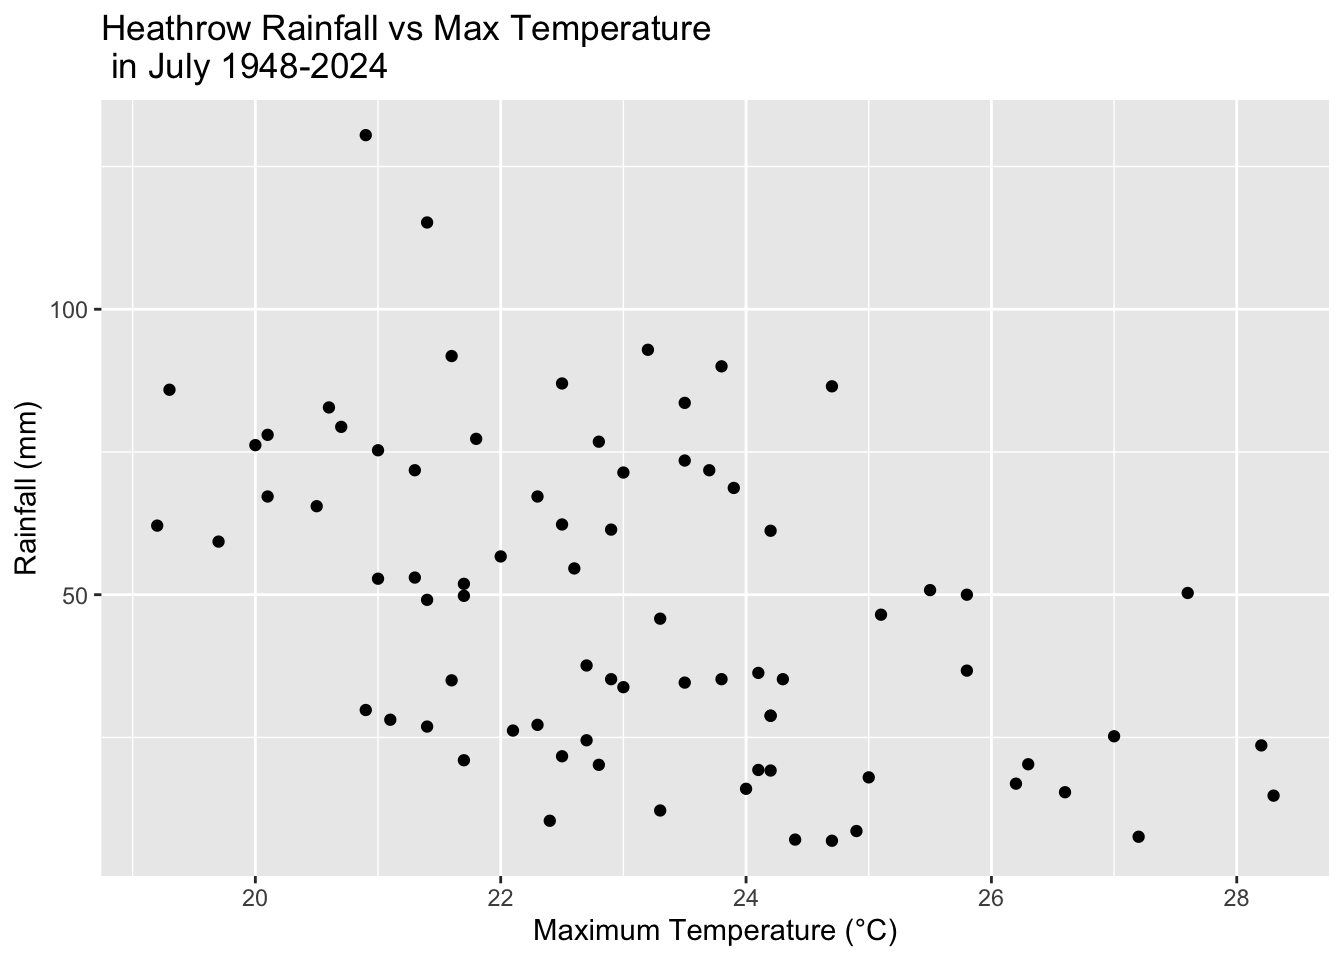
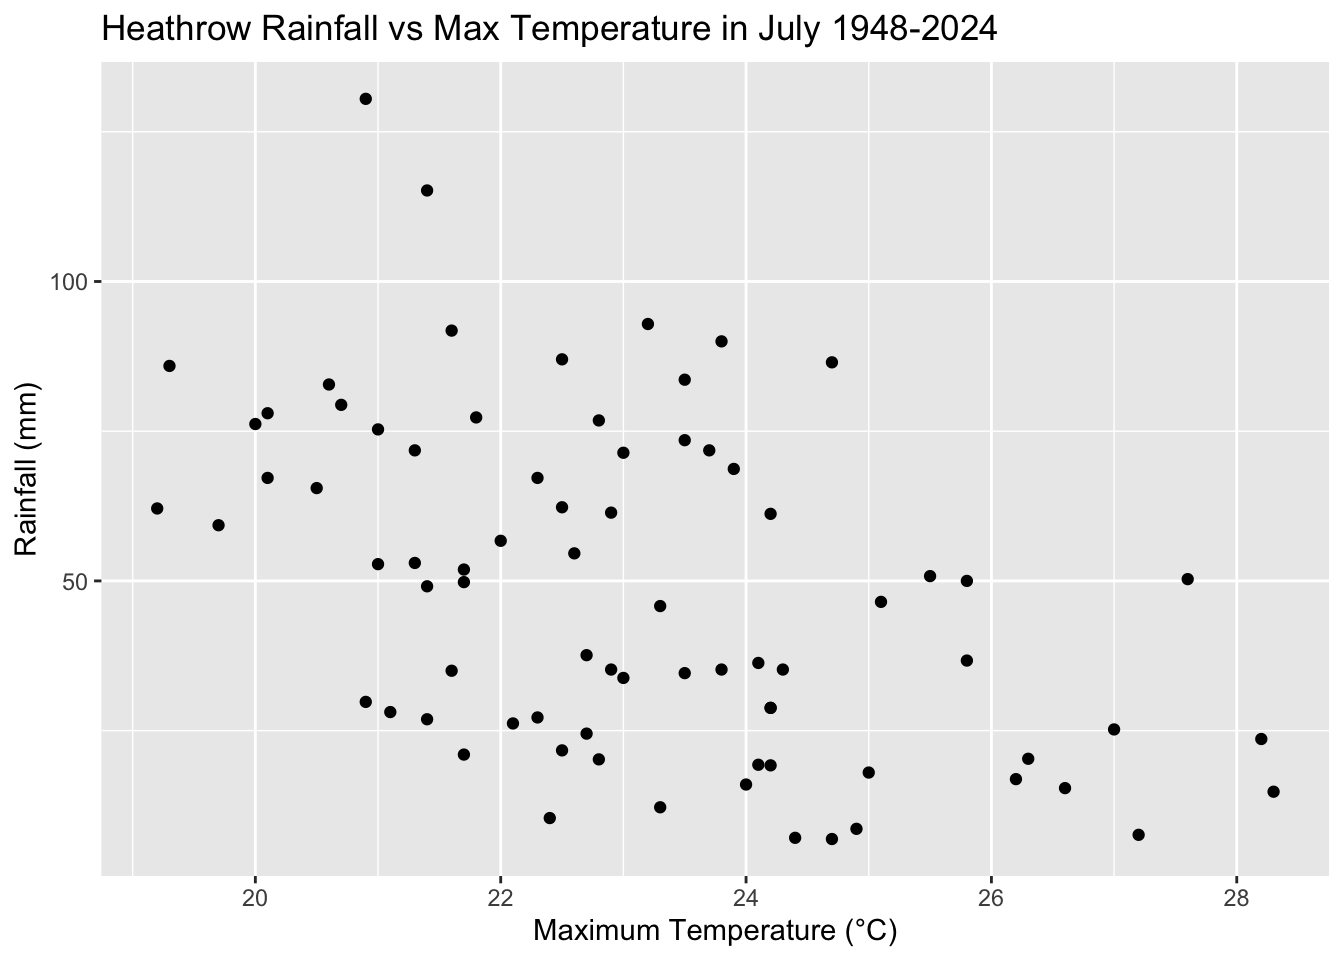
descriptions

diff --git a/docs/UK_Weather.html b/docs/UK_Weather.html
@@ -171,9 +171,10 @@ pre > code.sourceCode > span > a:first-child::before { text-decoration: underlin
   <ul>
   <li><a href="#introduction" id="toc-introduction" class="nav-link active" data-scroll-target="#introduction">Introduction</a></li>
   <li><a href="#station-heathrow" id="toc-station-heathrow" class="nav-link" data-scroll-target="#station-heathrow">Station Heathrow</a></li>
-  <li><a href="#shuffling" id="toc-shuffling" class="nav-link" data-scroll-target="#shuffling">Shuffling</a></li>
-  <li><a href="#applying-shuffling-to-heathrow-data" id="toc-applying-shuffling-to-heathrow-data" class="nav-link" data-scroll-target="#applying-shuffling-to-heathrow-data">Applying Shuffling to Heathrow Data</a></li>
+  <li><a href="#hypothesis-testing" id="toc-hypothesis-testing" class="nav-link" data-scroll-target="#hypothesis-testing">Hypothesis Testing</a></li>
+  <li><a href="#applying-hypothesis-testing-to-heathrow-data" id="toc-applying-hypothesis-testing-to-heathrow-data" class="nav-link" data-scroll-target="#applying-hypothesis-testing-to-heathrow-data">Applying Hypothesis Testing to Heathrow Data</a></li>
   <li><a href="#lerwick-station" id="toc-lerwick-station" class="nav-link" data-scroll-target="#lerwick-station">Lerwick Station</a></li>
+  <li><a href="#applying-shuffling-to-lerwick-data" id="toc-applying-shuffling-to-lerwick-data" class="nav-link" data-scroll-target="#applying-shuffling-to-lerwick-data">Applying Shuffling to Lerwick Data</a></li>
   </ul>
 </nav>
     </div>
@@ -212,7 +213,7 @@ pre > code.sourceCode > span > a:first-child::before { text-decoration: underlin
 <span id="cb1-5"><a href="#cb1-5" aria-hidden="true" tabindex="-1"></a>uk_weather <span class="ot">&lt;-</span> readr<span class="sc">::</span><span class="fu">read_csv</span>(<span class="st">'https://raw.githubusercontent.com/rfordatascience/tidytuesday/main/data/2025/2025-10-21/historic_station_met.csv'</span>)</span></code></pre></div><button title="Copy to Clipboard" class="code-copy-button"><i class="bi"></i></button></div>
 </details>
 </div>
-<p>In the UK, the weather is varied: some months bring very high temperatures, while others are cold. The UK is also known for high levels of precipitation. July is known to be one of the months whose weather has changed the most over the years. Using weather data from the 1940s to the 2020s from several weather stations around the UK, I hope to compare rainfall with maximum temperature in July of each year. So, my research question is: Is there a correlation between maximum temperature and total rainfall in July?</p>
+<p>In the UK, the weather is varied: some months bring very high temperatures, while others are cold. The UK is also known for high levels of precipitation. July is known to be one of the months whose weather has changed the most over the years. Using weather data from the 1940s to the 2020s from several weather stations around the UK, I hope to compare rainfall with maximum temperature in July of each year. My research question: Is there a correlation between maximum temperature and total rainfall in July?</p>
 <p>To understand this question I have chosen to focus on two stations: Heathrow and Lerwick. Heathrow is a station that is not far out of central London whereas Lerwick is the most northern station in the UK. I thought it would be interesting to compare the data of these two stations.</p>
 </section>
 <section id="station-heathrow" class="level2">
@@ -231,7 +232,7 @@ pre > code.sourceCode > span > a:first-child::before { text-decoration: underlin
 <span id="cb2-5"><a href="#cb2-5" aria-hidden="true" tabindex="-1"></a><span class="fu">ggplot</span>(heathrow_july, <span class="fu">aes</span>(<span class="at">x =</span> tmax, <span class="at">y =</span> rain))<span class="sc">+</span></span>
 <span id="cb2-6"><a href="#cb2-6" aria-hidden="true" tabindex="-1"></a>  <span class="fu">geom_point</span>() <span class="sc">+</span></span>
 <span id="cb2-7"><a href="#cb2-7" aria-hidden="true" tabindex="-1"></a>  <span class="fu">labs</span>(</span>
-<span id="cb2-8"><a href="#cb2-8" aria-hidden="true" tabindex="-1"></a>    <span class="at">title =</span> <span class="st">"Heathrow Rainfall vs Max Temperature </span><span class="sc">\n</span><span class="st"> in July 1948-2024"</span>,</span>
+<span id="cb2-8"><a href="#cb2-8" aria-hidden="true" tabindex="-1"></a>    <span class="at">title =</span> <span class="st">"Heathrow Rainfall vs Max Temperature in July 1948-2024"</span>,</span>
 <span id="cb2-9"><a href="#cb2-9" aria-hidden="true" tabindex="-1"></a>    <span class="at">x =</span> <span class="st">"Maximum Temperature (°C)"</span>, </span>
 <span id="cb2-10"><a href="#cb2-10" aria-hidden="true" tabindex="-1"></a>    <span class="at">y =</span> <span class="st">"Rainfall (mm)"</span> </span>
 <span id="cb2-11"><a href="#cb2-11" aria-hidden="true" tabindex="-1"></a>    )</span></code></pre></div><button title="Copy to Clipboard" class="code-copy-button"><i class="bi"></i></button></div>
@@ -259,8 +260,9 @@ pre > code.sourceCode > span > a:first-child::before { text-decoration: underlin
 </div>
 </section>
 </section>
-<section id="shuffling" class="level2">
-<h2 class="anchored" data-anchor-id="shuffling">Shuffling</h2>
+<section id="hypothesis-testing" class="level2">
+<h2 class="anchored" data-anchor-id="hypothesis-testing">Hypothesis Testing</h2>
+<p>To begin our investigation of the research question, we need to test the null hypothesis. In this scenario, we are testing whether or not the rainfall and maximum temperature happen just by random chance or if they are correlation.</p>
 <p>First to begin our investigation of how the correlation changes as we shuffle the data points, we have to create functions that we can iterate to give us the shuffle data frame we want.</p>
 <p>The first function that I have created is called shuffle points. The shuffle points function intends to take in a data frame and then shuffle the tmax temperatures from that dataset. The function will return the data frame with a new column called shuffle_temp with the shuffled values.</p>
 <p>The second function I have created is to help visualize the different correlations of these shuffle data points. The shuffle correlation function takes in a data frame and samples the maximum temperature again (we have to be careful to set the seed before calling each function so that it maintains the order), and then calculates the correlation for each shuffled temperature and subsequent rain value.</p>
@@ -280,18 +282,18 @@ pre > code.sourceCode > span > a:first-child::before { text-decoration: underlin
 </details>
 </div>
 </section>
-<section id="applying-shuffling-to-heathrow-data" class="level2">
-<h2 class="anchored" data-anchor-id="applying-shuffling-to-heathrow-data">Applying Shuffling to Heathrow Data</h2>
+<section id="applying-hypothesis-testing-to-heathrow-data" class="level2">
+<h2 class="anchored" data-anchor-id="applying-hypothesis-testing-to-heathrow-data">Applying Hypothesis Testing to Heathrow Data</h2>
 <div class="cell">
 <details class="code-fold">
 <summary>Code</summary>
 <div class="code-copy-outer-scaffold"><div class="sourceCode cell-code" id="cb6"><pre class="sourceCode r code-with-copy"><code class="sourceCode r"><span id="cb6-1"><a href="#cb6-1" aria-hidden="true" tabindex="-1"></a><span class="fu">set.seed</span>(<span class="dv">47</span>)</span>
-<span id="cb6-2"><a href="#cb6-2" aria-hidden="true" tabindex="-1"></a>shuffle_plot <span class="ot">&lt;-</span> <span class="fu">shuffle_points</span>(<span class="dv">1</span>, heathrow_july)</span>
+<span id="cb6-2"><a href="#cb6-2" aria-hidden="true" tabindex="-1"></a>shuffle_plot_heathrow <span class="ot">&lt;-</span> <span class="fu">shuffle_points</span>(<span class="dv">1</span>, heathrow_july)</span>
 <span id="cb6-3"><a href="#cb6-3" aria-hidden="true" tabindex="-1"></a></span>
-<span id="cb6-4"><a href="#cb6-4" aria-hidden="true" tabindex="-1"></a><span class="fu">ggplot</span>(shuffle_plot, <span class="fu">aes</span>(<span class="at">x =</span> shuffle_temp, <span class="at">y =</span> rain)) <span class="sc">+</span></span>
+<span id="cb6-4"><a href="#cb6-4" aria-hidden="true" tabindex="-1"></a><span class="fu">ggplot</span>(shuffle_plot_heathrow, <span class="fu">aes</span>(<span class="at">x =</span> shuffle_temp, <span class="at">y =</span> rain)) <span class="sc">+</span></span>
 <span id="cb6-5"><a href="#cb6-5" aria-hidden="true" tabindex="-1"></a>  <span class="fu">geom_point</span>() <span class="sc">+</span></span>
 <span id="cb6-6"><a href="#cb6-6" aria-hidden="true" tabindex="-1"></a>  <span class="fu">labs</span>(</span>
-<span id="cb6-7"><a href="#cb6-7" aria-hidden="true" tabindex="-1"></a>    <span class="at">title =</span> <span class="st">"Heathrow Rainfall vs. Shuffled Max </span><span class="sc">\n</span><span class="st"> Temperature"</span>,</span>
+<span id="cb6-7"><a href="#cb6-7" aria-hidden="true" tabindex="-1"></a>    <span class="at">title =</span> <span class="st">"Heathrow Rainfall vs. Shuffled Max Temperature"</span>,</span>
 <span id="cb6-8"><a href="#cb6-8" aria-hidden="true" tabindex="-1"></a>    <span class="at">x =</span> <span class="st">"Shuffled Max Temperature (°C)"</span>,</span>
 <span id="cb6-9"><a href="#cb6-9" aria-hidden="true" tabindex="-1"></a>    <span class="at">y =</span> <span class="st">"Rainfall (mm)"</span></span>
 <span id="cb6-10"><a href="#cb6-10" aria-hidden="true" tabindex="-1"></a>  )</span></code></pre></div><button title="Copy to Clipboard" class="code-copy-button"><i class="bi"></i></button></div>
@@ -304,6 +306,7 @@ pre > code.sourceCode > span > a:first-child::before { text-decoration: underlin
 </div>
 </div>
 </div>
+<p>The plot above represents the shuffled maximum temperatures vs the rainfall. In simple terms, this means that the assigned maximum temperatures have been shuffled randomly. In the graph above we can see that the shuffled temperatures don’t have a similar negative correlation as the original graph. However, we can’t infer correlation with 1 variation of the shuffled temperatures. To understanding more we need to map the shuffle function multiple times.</p>
 <div class="cell">
 <details class="code-fold">
 <summary>Code</summary>
@@ -325,7 +328,7 @@ pre > code.sourceCode > span > a:first-child::before { text-decoration: underlin
 <span id="cb7-16"><a href="#cb7-16" aria-hidden="true" tabindex="-1"></a>    <span class="at">vjust =</span> <span class="fl">1.5</span></span>
 <span id="cb7-17"><a href="#cb7-17" aria-hidden="true" tabindex="-1"></a>  ) <span class="sc">+</span></span>
 <span id="cb7-18"><a href="#cb7-18" aria-hidden="true" tabindex="-1"></a>  <span class="fu">labs</span>(</span>
-<span id="cb7-19"><a href="#cb7-19" aria-hidden="true" tabindex="-1"></a>    <span class="at">title =</span> <span class="st">"Correlation of Shuffled Temperature </span><span class="sc">\n</span><span class="st"> vs Rainfall at Heathrow"</span>, </span>
+<span id="cb7-19"><a href="#cb7-19" aria-hidden="true" tabindex="-1"></a>    <span class="at">title =</span> <span class="st">"Correlation of Shuffled Temperature vs Rainfall at Heathrow"</span>, </span>
 <span id="cb7-20"><a href="#cb7-20" aria-hidden="true" tabindex="-1"></a>    <span class="at">x =</span> <span class="st">"Temperature and Rainfall Correlation"</span>,</span>
 <span id="cb7-21"><a href="#cb7-21" aria-hidden="true" tabindex="-1"></a>    <span class="at">y =</span> <span class="st">"Number of Shuffles"</span></span>
 <span id="cb7-22"><a href="#cb7-22" aria-hidden="true" tabindex="-1"></a>  )</span></code></pre></div><button title="Copy to Clipboard" class="code-copy-button"><i class="bi"></i></button></div>
@@ -370,10 +373,69 @@ pre > code.sourceCode > span > a:first-child::before { text-decoration: underlin
 <div class="code-copy-outer-scaffold"><div class="sourceCode cell-code" id="cb9"><pre class="sourceCode r code-with-copy"><code class="sourceCode r"><span id="cb9-1"><a href="#cb9-1" aria-hidden="true" tabindex="-1"></a>correlation_lerwick <span class="ot">&lt;-</span> lerwick_july <span class="sc">|&gt;</span></span>
 <span id="cb9-2"><a href="#cb9-2" aria-hidden="true" tabindex="-1"></a>  <span class="fu">summarize</span>(<span class="at">r =</span> <span class="fu">cor</span>(tmax, rain)) <span class="sc">|&gt;</span></span>
 <span id="cb9-3"><a href="#cb9-3" aria-hidden="true" tabindex="-1"></a>  <span class="fu">pull</span>(r)</span>
-<span id="cb9-4"><a href="#cb9-4" aria-hidden="true" tabindex="-1"></a>correlation_lerwick</span></code></pre></div><button title="Copy to Clipboard" class="code-copy-button"><i class="bi"></i></button></div>
+<span id="cb9-4"><a href="#cb9-4" aria-hidden="true" tabindex="-1"></a><span class="fu">cat</span>(<span class="st">"The calculated correlation between rainfall and maximum temperature at Lerwick station is: "</span>, correlation_lerwick)</span></code></pre></div><button title="Copy to Clipboard" class="code-copy-button"><i class="bi"></i></button></div>
 </details>
 <div class="cell-output cell-output-stdout">
-<pre><code>[1] -0.05910021</code></pre>
+<pre><code>The calculated correlation between rainfall and maximum temperature at Lerwick station is:  -0.05910021</code></pre>
+</div>
+</div>
+</section>
+<section id="applying-shuffling-to-lerwick-data" class="level2">
+<h2 class="anchored" data-anchor-id="applying-shuffling-to-lerwick-data">Applying Shuffling to Lerwick Data</h2>
+<div class="cell">
+<details class="code-fold">
+<summary>Code</summary>
+<div class="code-copy-outer-scaffold"><div class="sourceCode cell-code" id="cb11"><pre class="sourceCode r code-with-copy"><code class="sourceCode r"><span id="cb11-1"><a href="#cb11-1" aria-hidden="true" tabindex="-1"></a><span class="fu">set.seed</span>(<span class="dv">123</span>)</span>
+<span id="cb11-2"><a href="#cb11-2" aria-hidden="true" tabindex="-1"></a>shuffle_plot_lerwick <span class="ot">&lt;-</span> <span class="fu">shuffle_points</span>(<span class="dv">1</span>, lerwick_july)</span>
+<span id="cb11-3"><a href="#cb11-3" aria-hidden="true" tabindex="-1"></a></span>
+<span id="cb11-4"><a href="#cb11-4" aria-hidden="true" tabindex="-1"></a><span class="fu">ggplot</span>(shuffle_plot_lerwick, <span class="fu">aes</span>(<span class="at">x =</span> shuffle_temp, <span class="at">y =</span> rain)) <span class="sc">+</span></span>
+<span id="cb11-5"><a href="#cb11-5" aria-hidden="true" tabindex="-1"></a>  <span class="fu">geom_point</span>() <span class="sc">+</span></span>
+<span id="cb11-6"><a href="#cb11-6" aria-hidden="true" tabindex="-1"></a>  <span class="fu">labs</span>(</span>
+<span id="cb11-7"><a href="#cb11-7" aria-hidden="true" tabindex="-1"></a>    <span class="at">title =</span> <span class="st">"Lerwick Rainfall vs. Shuffled Max Temperature"</span>,</span>
+<span id="cb11-8"><a href="#cb11-8" aria-hidden="true" tabindex="-1"></a>    <span class="at">x =</span> <span class="st">"Shuffled Max Temperature (°C)"</span>,</span>
+<span id="cb11-9"><a href="#cb11-9" aria-hidden="true" tabindex="-1"></a>    <span class="at">y =</span> <span class="st">"Rainfall (mm)"</span></span>
+<span id="cb11-10"><a href="#cb11-10" aria-hidden="true" tabindex="-1"></a>  )</span></code></pre></div><button title="Copy to Clipboard" class="code-copy-button"><i class="bi"></i></button></div>
+</details>
+<div class="cell-output-display">
+<div>
+<figure class="figure">
+<p><img src="UK_Weather_files/figure-html/unnamed-chunk-9-1.png" class="img-fluid figure-img" width="672"></p>
+</figure>
+</div>
+</div>
+</div>
+<div class="cell">
+<details class="code-fold">
+<summary>Code</summary>
+<div class="code-copy-outer-scaffold"><div class="sourceCode cell-code" id="cb12"><pre class="sourceCode r code-with-copy"><code class="sourceCode r"><span id="cb12-1"><a href="#cb12-1" aria-hidden="true" tabindex="-1"></a><span class="fu">set.seed</span>(<span class="dv">47</span>)</span>
+<span id="cb12-2"><a href="#cb12-2" aria-hidden="true" tabindex="-1"></a>shuffled_lerwick <span class="ot">&lt;-</span> <span class="fu">map</span>(<span class="dv">1</span><span class="sc">:</span><span class="dv">1000</span>, shuffle_correlation, <span class="at">dataframe =</span> lerwick_july)<span class="sc">|&gt;</span></span>
+<span id="cb12-3"><a href="#cb12-3" aria-hidden="true" tabindex="-1"></a><span class="fu">list_rbind</span>()</span>
+<span id="cb12-4"><a href="#cb12-4" aria-hidden="true" tabindex="-1"></a></span>
+<span id="cb12-5"><a href="#cb12-5" aria-hidden="true" tabindex="-1"></a>shuffled_lerwick <span class="sc">|&gt;</span></span>
+<span id="cb12-6"><a href="#cb12-6" aria-hidden="true" tabindex="-1"></a>  <span class="fu">ggplot</span>(<span class="fu">aes</span>(<span class="at">x =</span> correlation)) <span class="sc">+</span></span>
+<span id="cb12-7"><a href="#cb12-7" aria-hidden="true" tabindex="-1"></a>  <span class="fu">geom_histogram</span>(<span class="at">binwidth =</span> <span class="fl">0.02</span>) <span class="sc">+</span></span>
+<span id="cb12-8"><a href="#cb12-8" aria-hidden="true" tabindex="-1"></a>  <span class="fu">geom_vline</span>(<span class="at">xintercept =</span> correlation_lerwick, <span class="at">color =</span> <span class="st">"red"</span>, <span class="at">linewidth =</span> <span class="dv">1</span>)<span class="sc">+</span></span>
+<span id="cb12-9"><a href="#cb12-9" aria-hidden="true" tabindex="-1"></a>  <span class="fu">annotate</span>(</span>
+<span id="cb12-10"><a href="#cb12-10" aria-hidden="true" tabindex="-1"></a>    <span class="st">"text"</span>,</span>
+<span id="cb12-11"><a href="#cb12-11" aria-hidden="true" tabindex="-1"></a>    <span class="at">x =</span> correlation_lerwick,</span>
+<span id="cb12-12"><a href="#cb12-12" aria-hidden="true" tabindex="-1"></a>    <span class="at">y =</span> <span class="cn">Inf</span>,</span>
+<span id="cb12-13"><a href="#cb12-13" aria-hidden="true" tabindex="-1"></a>    <span class="at">label =</span> <span class="fu">paste</span>(<span class="st">"observed r ="</span>, <span class="fu">round</span>(correlation_lerwick, <span class="dv">3</span>)),</span>
+<span id="cb12-14"><a href="#cb12-14" aria-hidden="true" tabindex="-1"></a>    <span class="at">color =</span> <span class="st">"red"</span>,</span>
+<span id="cb12-15"><a href="#cb12-15" aria-hidden="true" tabindex="-1"></a>    <span class="at">hjust =</span> <span class="sc">-</span><span class="fl">0.05</span>,</span>
+<span id="cb12-16"><a href="#cb12-16" aria-hidden="true" tabindex="-1"></a>    <span class="at">vjust =</span> <span class="fl">1.5</span></span>
+<span id="cb12-17"><a href="#cb12-17" aria-hidden="true" tabindex="-1"></a>  ) <span class="sc">+</span></span>
+<span id="cb12-18"><a href="#cb12-18" aria-hidden="true" tabindex="-1"></a>  <span class="fu">labs</span>(</span>
+<span id="cb12-19"><a href="#cb12-19" aria-hidden="true" tabindex="-1"></a>    <span class="at">title =</span> <span class="st">"Correlation of Shuffled Temperature vs Rainfall at Lerwick"</span>, </span>
+<span id="cb12-20"><a href="#cb12-20" aria-hidden="true" tabindex="-1"></a>    <span class="at">x =</span> <span class="st">"Temperature and Rainfall Correlation"</span>,</span>
+<span id="cb12-21"><a href="#cb12-21" aria-hidden="true" tabindex="-1"></a>    <span class="at">y =</span> <span class="st">"Number of Shuffles"</span></span>
+<span id="cb12-22"><a href="#cb12-22" aria-hidden="true" tabindex="-1"></a>  )</span></code></pre></div><button title="Copy to Clipboard" class="code-copy-button"><i class="bi"></i></button></div>
+</details>
+<div class="cell-output-display">
+<div>
+<figure class="figure">
+<p><img src="UK_Weather_files/figure-html/unnamed-chunk-10-1.png" class="img-fluid figure-img" width="672"></p>
+</figure>
+</div>
 </div>
 </div>
 

diff --git a/docs/breed_rank.html b/docs/breed_rank.html
@@ -145,7 +145,11 @@ pre > code.sourceCode > span > a:first-child::before { text-decoration: underlin
   </li>  
         <li>
     <a class="dropdown-item" href="./office_lines.html">
- <span class="dropdown-text">Office Lines</span></a>
+ <span class="dropdown-text">The Office Quotes</span></a>
+  </li>  
+        <li>
+    <a class="dropdown-item" href="./UK_Weather.html">
+ <span class="dropdown-text">UK Weather</span></a>
   </li>  
     </ul>
   </li>
